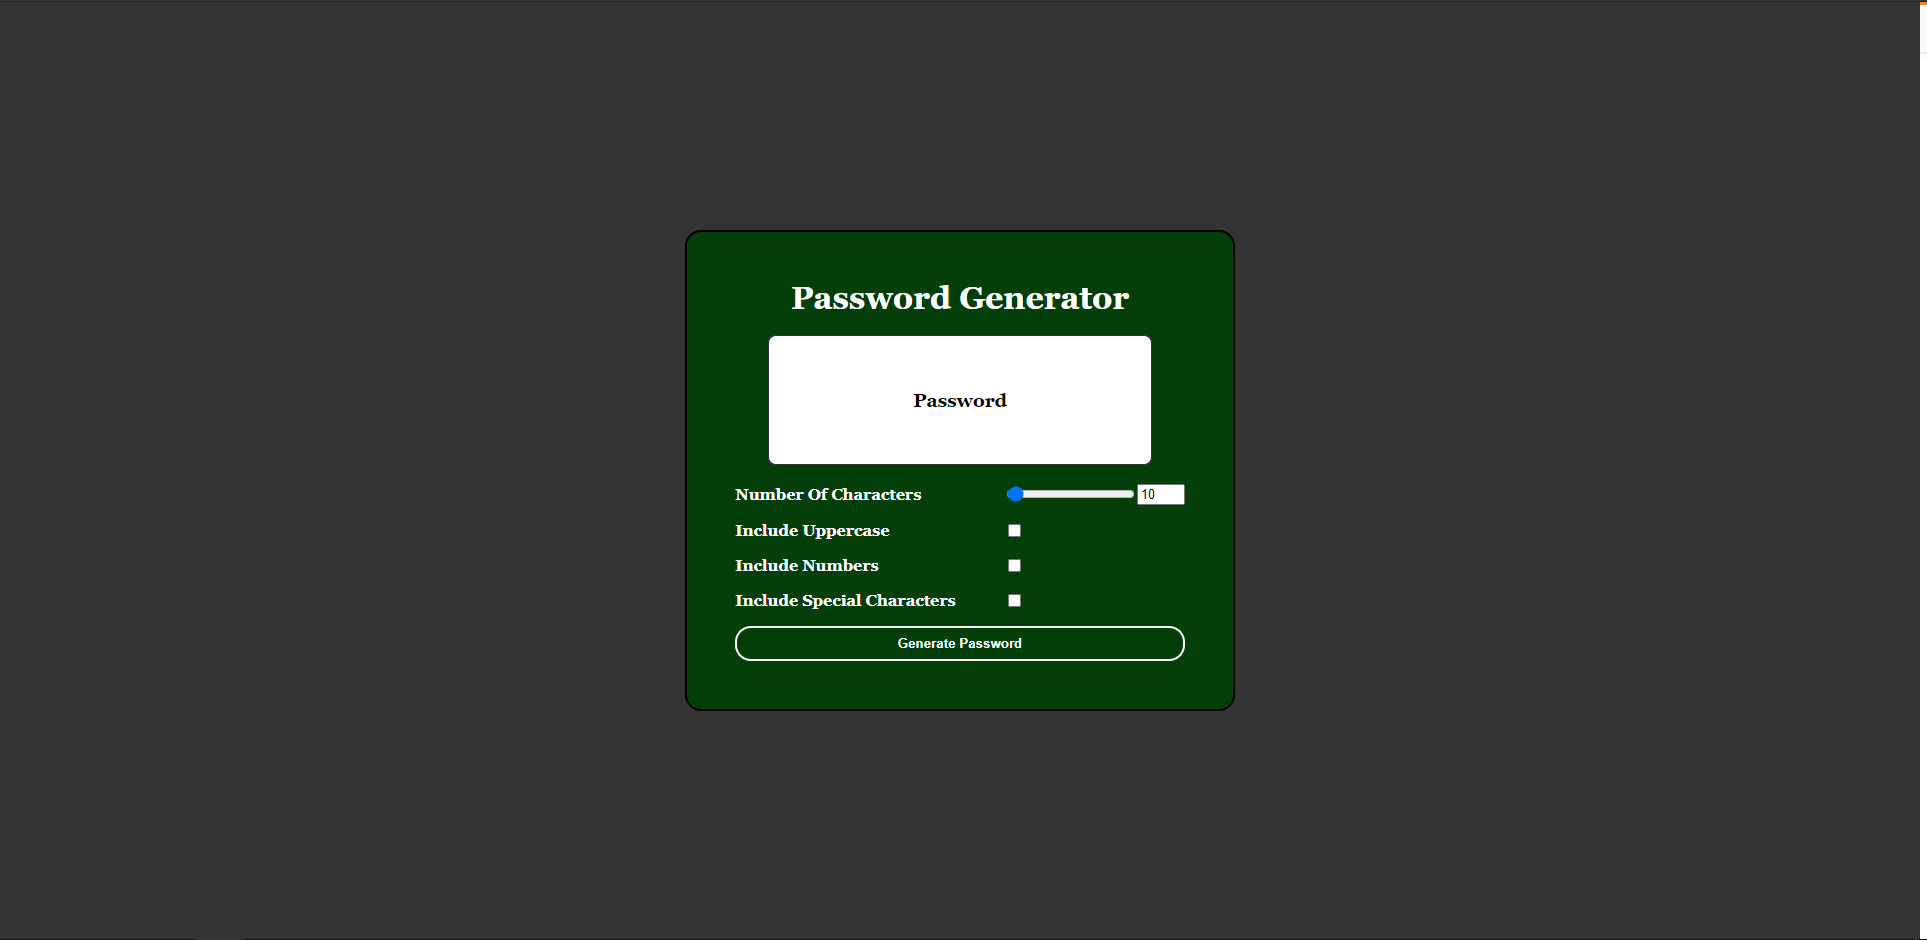
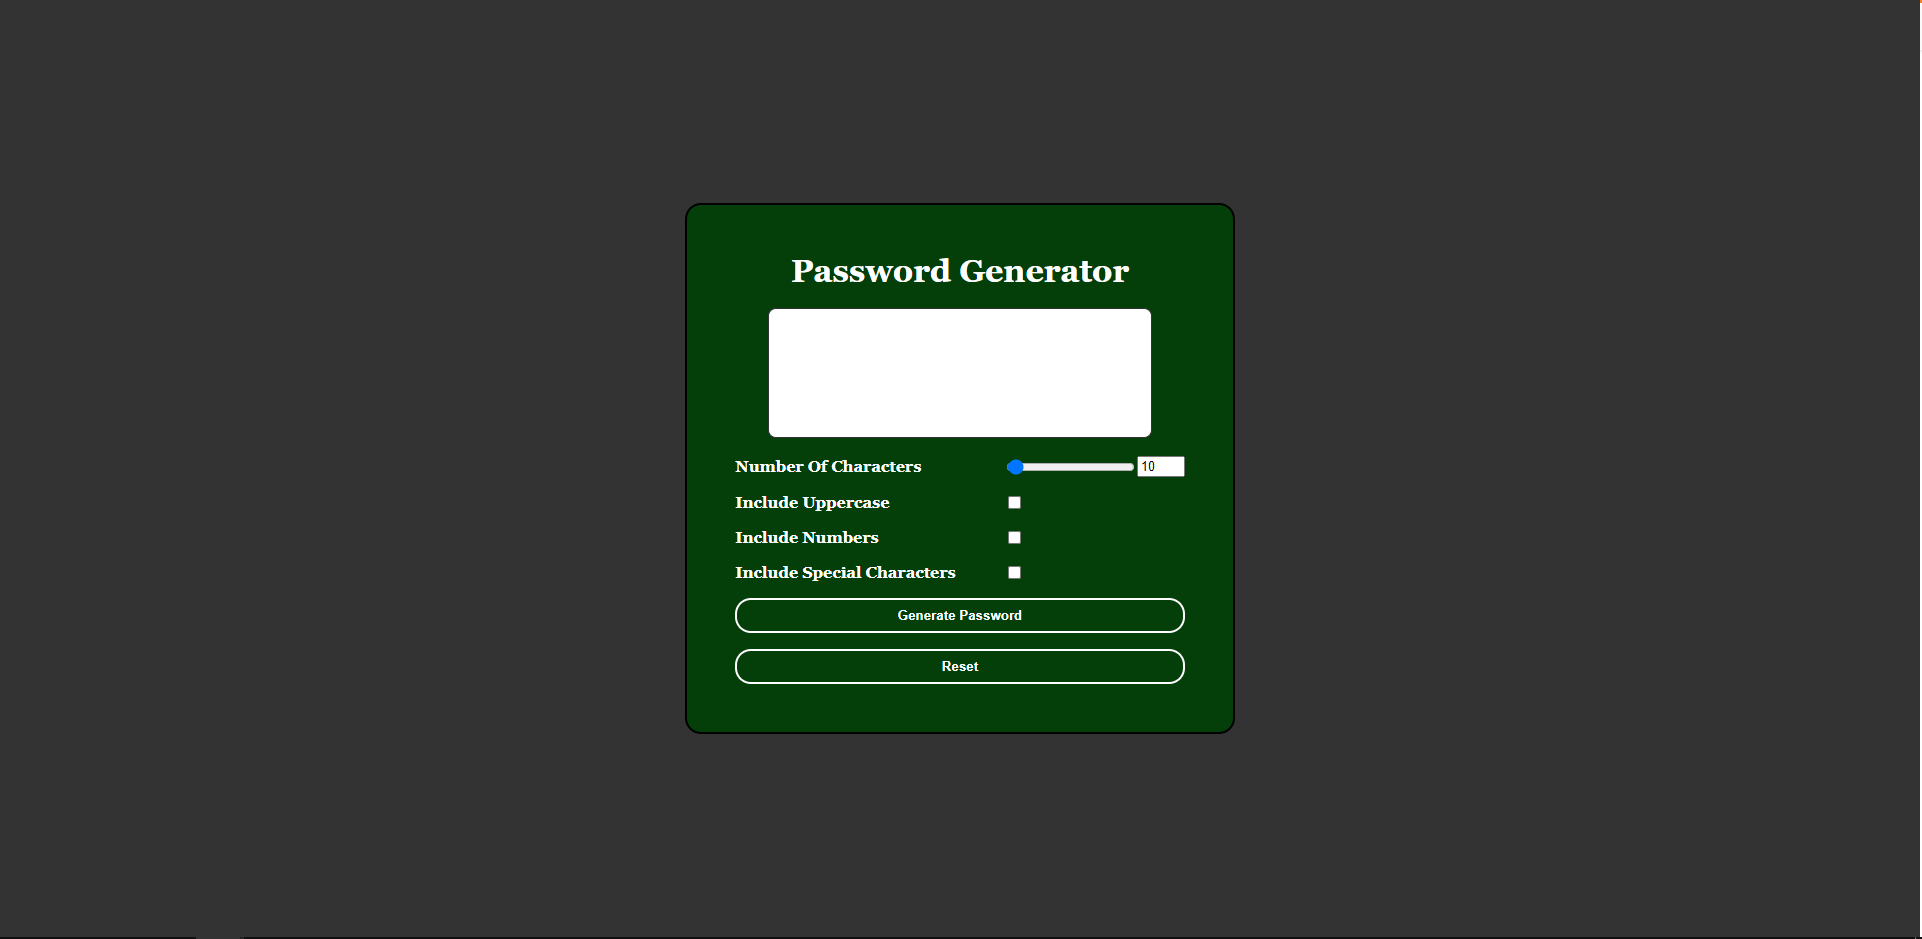
Final Drafts
this is my last commit for this homework.

diff --git a/Assets/script.js b/Assets/script.js
@@ -1,3 +1,8 @@
+// Const is used for absolute values of variables. They are primarily used in the global scope, but they can be used in the local scope.
+// Let is used instead of var to declare values. Let variables are used in the local scope.
+
+// These variables get the values from the password generator form. 
+// So it gets the values of the number of characters selected, if numbers are included, if uppercase is included, and if special characters are included.
 const characterAmountRange = document.getElementById('characterAmountRange')
 const characterAmountNumber = document.getElementById('characterAmountNumber')
 const includeUppercaseElement = document.getElementById('includeUppercase')
@@ -6,6 +11,25 @@ const includeSpecCharElement = document.getElementById('includeSpecChar')
 const form = document.getElementById('passwordGeneratorForm')
 const DisplayPassword = document.getElementById('displayPassword')
 
+// This syncs up the slider and the character number textbox in the number of characters section.
+function syncCharacterAmount(e) {
+    const value = e.target.value
+    characterAmountNumber.value = value
+    characterAmountRange.value = value
+}
+// This function generates an array from the low number to the high number. The loop starts from low and continues until it hits the high number.
+// This function is used for the ASCII code arrays to put characters in the password that apply.
+function arrayFromLowToHigh (low, high) {
+    const array = []
+    for (let i = low; i <= high; i++) {
+        array.push(i)
+    }
+    return array;
+}
+// These values are for the ASCII character codes. It's simpler to gather all your characters by using the ASCII code system. 
+// The numbers in the parentheses are the range of codes for lowercase letters, uppercase letters, and numbers.
+// The Special Character section looks a little confusing, BUT the special characters in ASCII have multiple code ranges. 
+// So to get all the special characters we concatenate all the ranges together.
 const UPPERCASE_CHAR_CODE = arrayFromLowToHigh(65, 90)
 const LOWERCASE_CHAR_CODE = arrayFromLowToHigh(97, 122)
 const NUMBER_CHAR_CODE = arrayFromLowToHigh(48, 57)
@@ -16,11 +40,14 @@ const SPECIAL_CHAR_CODE = arrayFromLowToHigh(33, 47).concat(
 ).concat(
     arrayFromLowToHigh(123,126)
 )
-
+// This event listener is looking for the input of the number of characters and the range the user selects.
 characterAmountNumber.addEventListener('input', syncCharacterAmount);
 characterAmountRange.addEventListener('input', syncCharacterAmount);
-
-form.addEventListener('submit', e=> {
+// This event triggers when you hit the select button. It looks for values that were checked, or not, in the checkboxes and the number of characters that was selected by the user.
+// Then it generates the password.
+// The lowercase e is a reference to an event object. So I use the first e for the event object of the entire event listener for the form submission. 
+// I use e one more time to prevent the default so the page doesn't refresh when the generate password button is pushed.
+form.addEventListener('submit', e => {
     e.preventDefault()
     const characterAmount = characterAmountNumber.value
     const includeUppercase = includeUppercaseElement.checked
@@ -29,13 +56,13 @@ form.addEventListener('submit', e=> {
     const password = generatePassword(characterAmount, includeUppercase, includeNumber, includeSpecChar)
     DisplayPassword.innerText = password
 })
-
+// this function generates the random password for the user.
 function generatePassword(characterAmount, includeUppercase, includeNumber, includeSpecChar) {
     let charCodes = LOWERCASE_CHAR_CODE
     if (includeUppercase) charCodes = charCodes.concat(UPPERCASE_CHAR_CODE)
     if (includeNumber) charCodes = charCodes.concat(NUMBER_CHAR_CODE)
     if (includeSpecChar) charCodes = charCodes.concat(SPECIAL_CHAR_CODE)
-
+// This loop runs each time based on the amount of characters that was selected by the user.
     const passwordCharacters = []
     for (let i = 0; i < characterAmount; i++) {
         const characterCode = charCodes[Math.floor(Math.random() * charCodes.length)]
@@ -43,17 +70,7 @@ function generatePassword(characterAmount, includeUppercase, includeNumber, incl
     }
     return passwordCharacters.join('')
 }
-
-function arrayFromLowToHigh (low, high) {
-    const array = []
-    for (let i = low; i <= high; i++) {
-        array.push(i)
-    }
-    return array;
-}
-
-function syncCharacterAmount(e) {
-    const value = e.target.value
-    characterAmountNumber.value = value
-    characterAmountRange.value = value
-}
+// This function resets the password generator back to 10 characters being selected by default, all checkboxes unchecked, and no text in the output box.
+document.getElementById("reset").onclick = function() {
+    document.getElementById('displayPassword').innerHTML = "";
+ };

diff --git a/Assets/styles.css b/Assets/styles.css
@@ -1,3 +1,4 @@
+/* this sets the parameters for the body section of our HTML document. */
 body {
     background-color: #333;
     margin: 0;
@@ -8,7 +9,7 @@ body {
     align-items: center;
     font-family: Georgia, 'Times New Roman', Times, serif;
 }
-
+/* The container is the background of the password generator. */
 .container {
     background-color: #043f09;
     padding: 3rem;
@@ -19,7 +20,7 @@ body {
     align-items: center;
     flex-direction: column;
 }
-
+/* I used a grid format for a nice and crisp layout for the form. I also added gapping between the items for spacing. */ 
 .form {
     display: grid;
     grid-template-columns: auto auto;
@@ -28,25 +29,26 @@ body {
     justify-content: center;
     align-items: center;    
 }
-
+/* I aligned the text of the title to the center with a 0 margin. */
 .title {
     margin: 0;
     text-align: center;
 }
-
+/* I made all the labels bold to stand out better so it's easier to read. */
 label {
     font-weight: bold;
 }
-
+/* This aligns the slider and the number textbox in the Number of characters section to the center. */
 .char-amt-container {
     display: flex;
     align-items: center;
 }
-
+/* This set the size of the number textbox in the number of characters section. */
 .input-number {
     width: 2.5rem;
 }
-
+/* This set up the parameters for the password output box. I put a hieght of 6rem so the output box has enough room for 128 characters. 
+   I found out the work-break command automatically puts in word breaks if the text reaches the end of the output box. */
 .display-password {
     background-color: white;
     color: black;
@@ -60,7 +62,8 @@ label {
     word-break: break-all;
     border-radius: .5rem;    
 }
-
+/* This set the parameters of the button. I made the background transparent to blend into the generator background. 
+The Span 2 option allowed me to expand the generate password box to 2 columns. It looks neater. */
 .button {
     grid-column: span 2;
     background-color: transparent;
@@ -71,7 +74,7 @@ label {
     cursor: pointer;
     border-radius: 1rem;
 }
-
+/* I changed the background color to an almost white when the generate password button is hovered. */
 .button:hover {
     background-color: #FFFFFF33;
 }

diff --git a/index.html b/index.html
@@ -11,24 +11,27 @@
 <body>
     <div class="container">
         <h1 class="title">Password Generator</h1>
-        <h3 class="display-password" id="displayPassword">Password</h3>
+        <h3 class="display-password" id="displayPassword"></h3>
         <form id="passwordGeneratorForm" class="form">
+            <!-- This is the selector for the amount of characters you want. -->
             <label for="">Number Of Characters</label>
             <div class="char-amt-container">
             <input type="range" min="8" max="128" value="10" id="characterAmountRange">
+            <!-- limits are between 8-128 characters and the default is set to 10 characters. -->
             <input class="input-number" type="number" min="8" max="128" value="10" id="characterAmountNumber">
             </div>
-
+            <!-- Checkbox label for Uppercase option -->
             <label for="">Include Uppercase</label>
             <input type="checkbox" id="includeUppercase">
-
+            <!-- Checkbox label for Number option -->
             <label for="">Include Numbers</label>
             <input type="checkbox" id="includeNumber">
-
+            <!-- Checkbox label for Special Characters option -->
             <label for="">Include Special Characters</label>
             <input type="checkbox" id="includeSpecChar">
 
             <button type="submit" class="button">Generate Password</button>
+            <button type="Reset" class="button" value="Reset the form" id="reset">Reset</button>
         </form>
     </div>
     

diff --git a/readme.md b/readme.md
@@ -2,7 +2,10 @@
 This produced a very secure password generator with input validation. There is no way the user could break the code and the code itself isn't verbose or excessive.
 
 **What did I learn from this assignment?** <BR />
-I learned a lot about the display flex option. I tinkered a lot with margins. I perfected posting hyperlinks that open in a new window. I learned to also have a lot of tenacity with web developing. It's easy to get stuck, but I don't get discouraged.
+I learned what CSS is like integrated with JavaScript 6.0. I saw some tutorial videos online and I found a structure I really liked. It's very clean, simplistic, and professional. 
+The only difference of JavaScript 6.0 from 5.0 that I saw in this exercise is I didn't use var. I used const for global scope variables although it was used a some in local scope variables. Their values are absolute, meaning const values can never be declared. I also used let variables, which can only be used in the local scope. I explained all my code in the homework.
+
+**NO CODE WAS CUT AND PASTED**
 
 **URLs for the Horiseon Website** <BR />
 <a href ="https://burkemm.github.io/Matts-Password-Generator/">My Password Generator</a> <BR />
@@ -12,4 +15,3 @@ I learned a lot about the display flex option. I tinkered a lot with margins. I 
 
 ![Matts-Portfolio](./Assets/Matts-Password-Generator.PNG)
 
-<a href="https://github.com/burkemm/Matts-Web-Portfolio/blob/main/assets/images/Matts-Web-Portfolio.png"> Matt's Portfolio Website Screenshot link</a>
